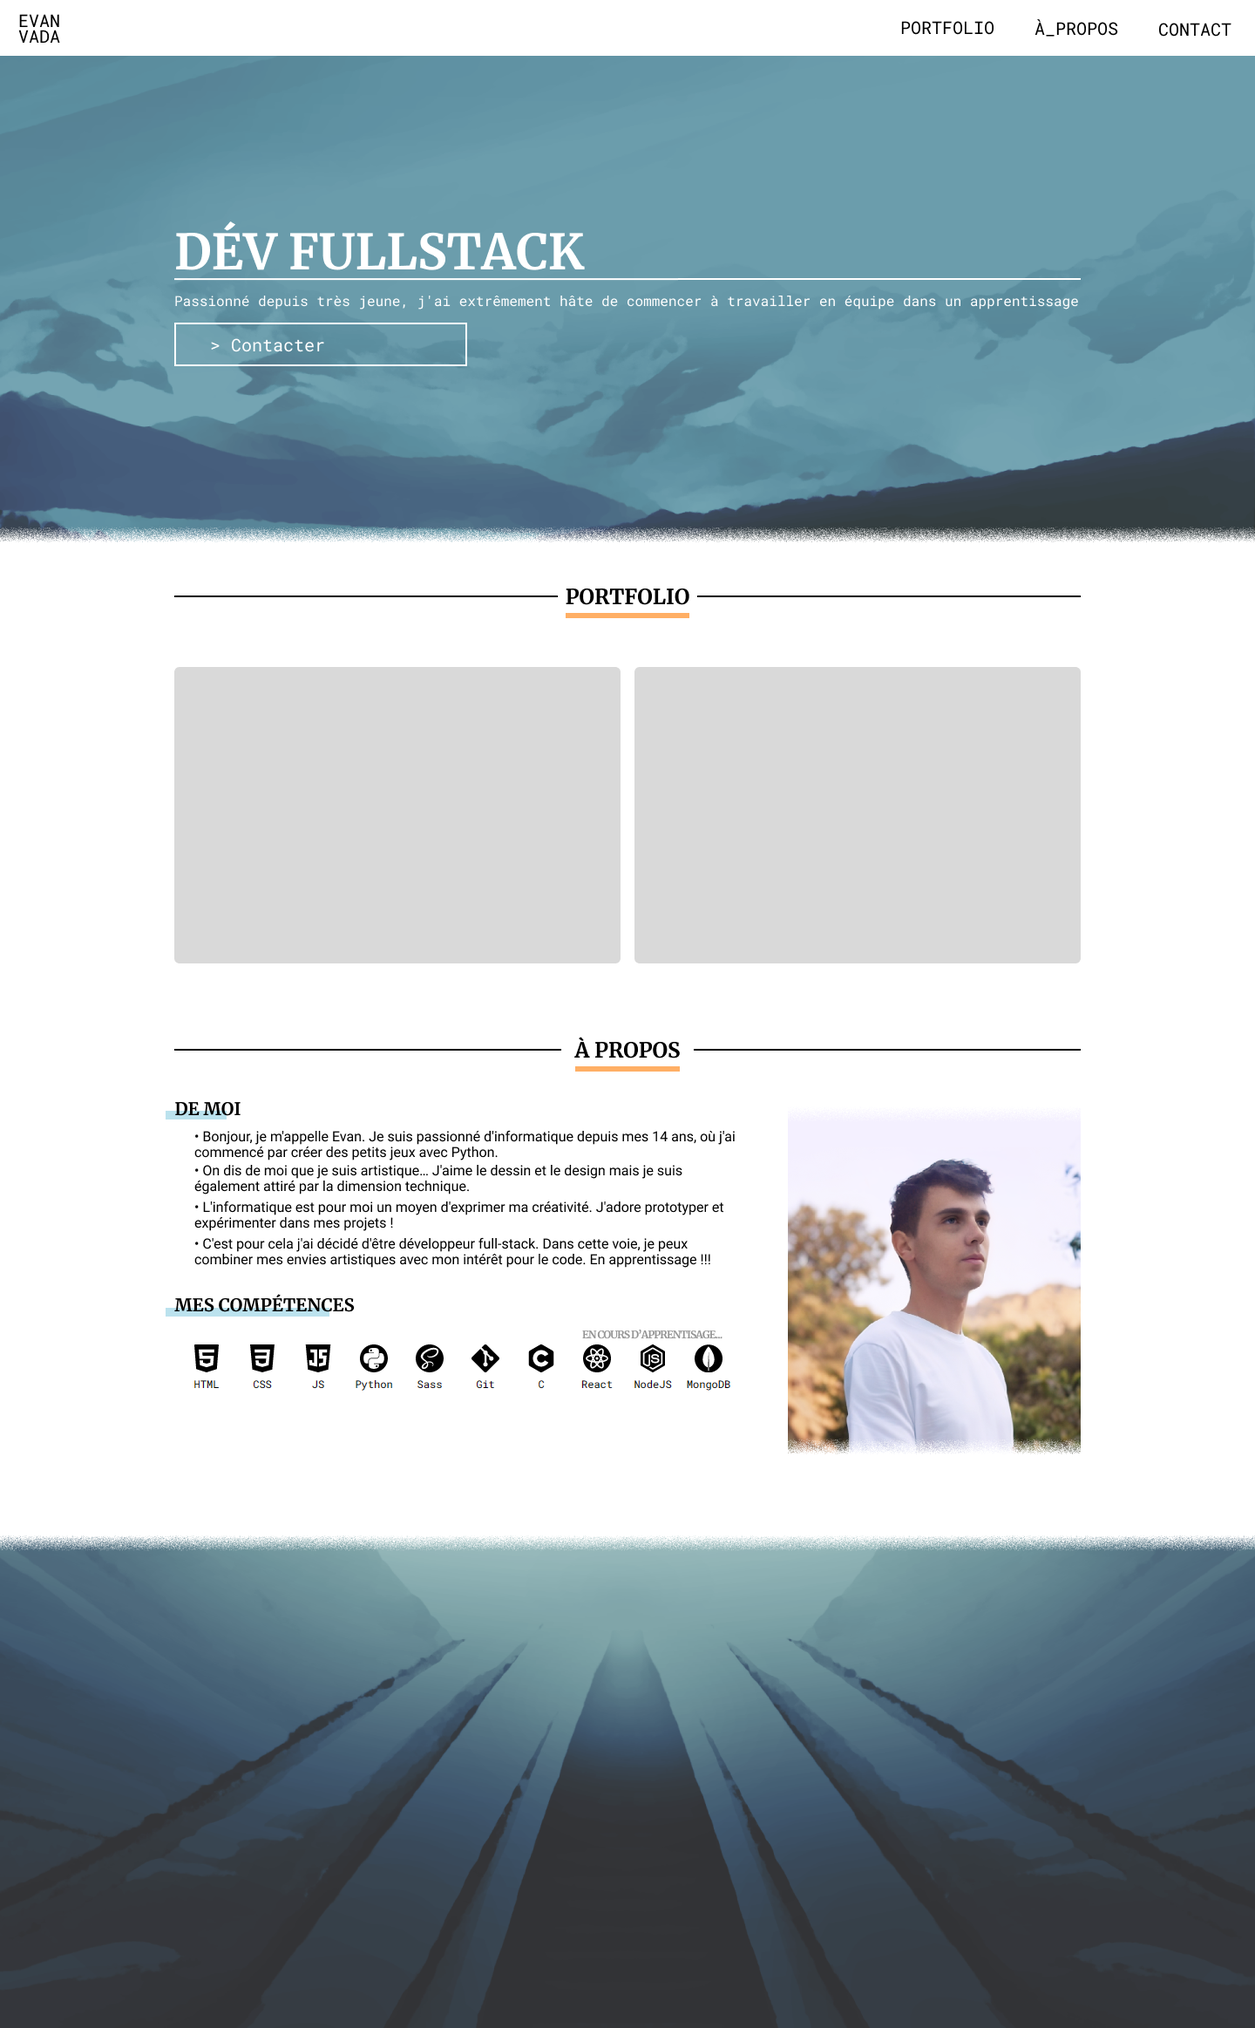
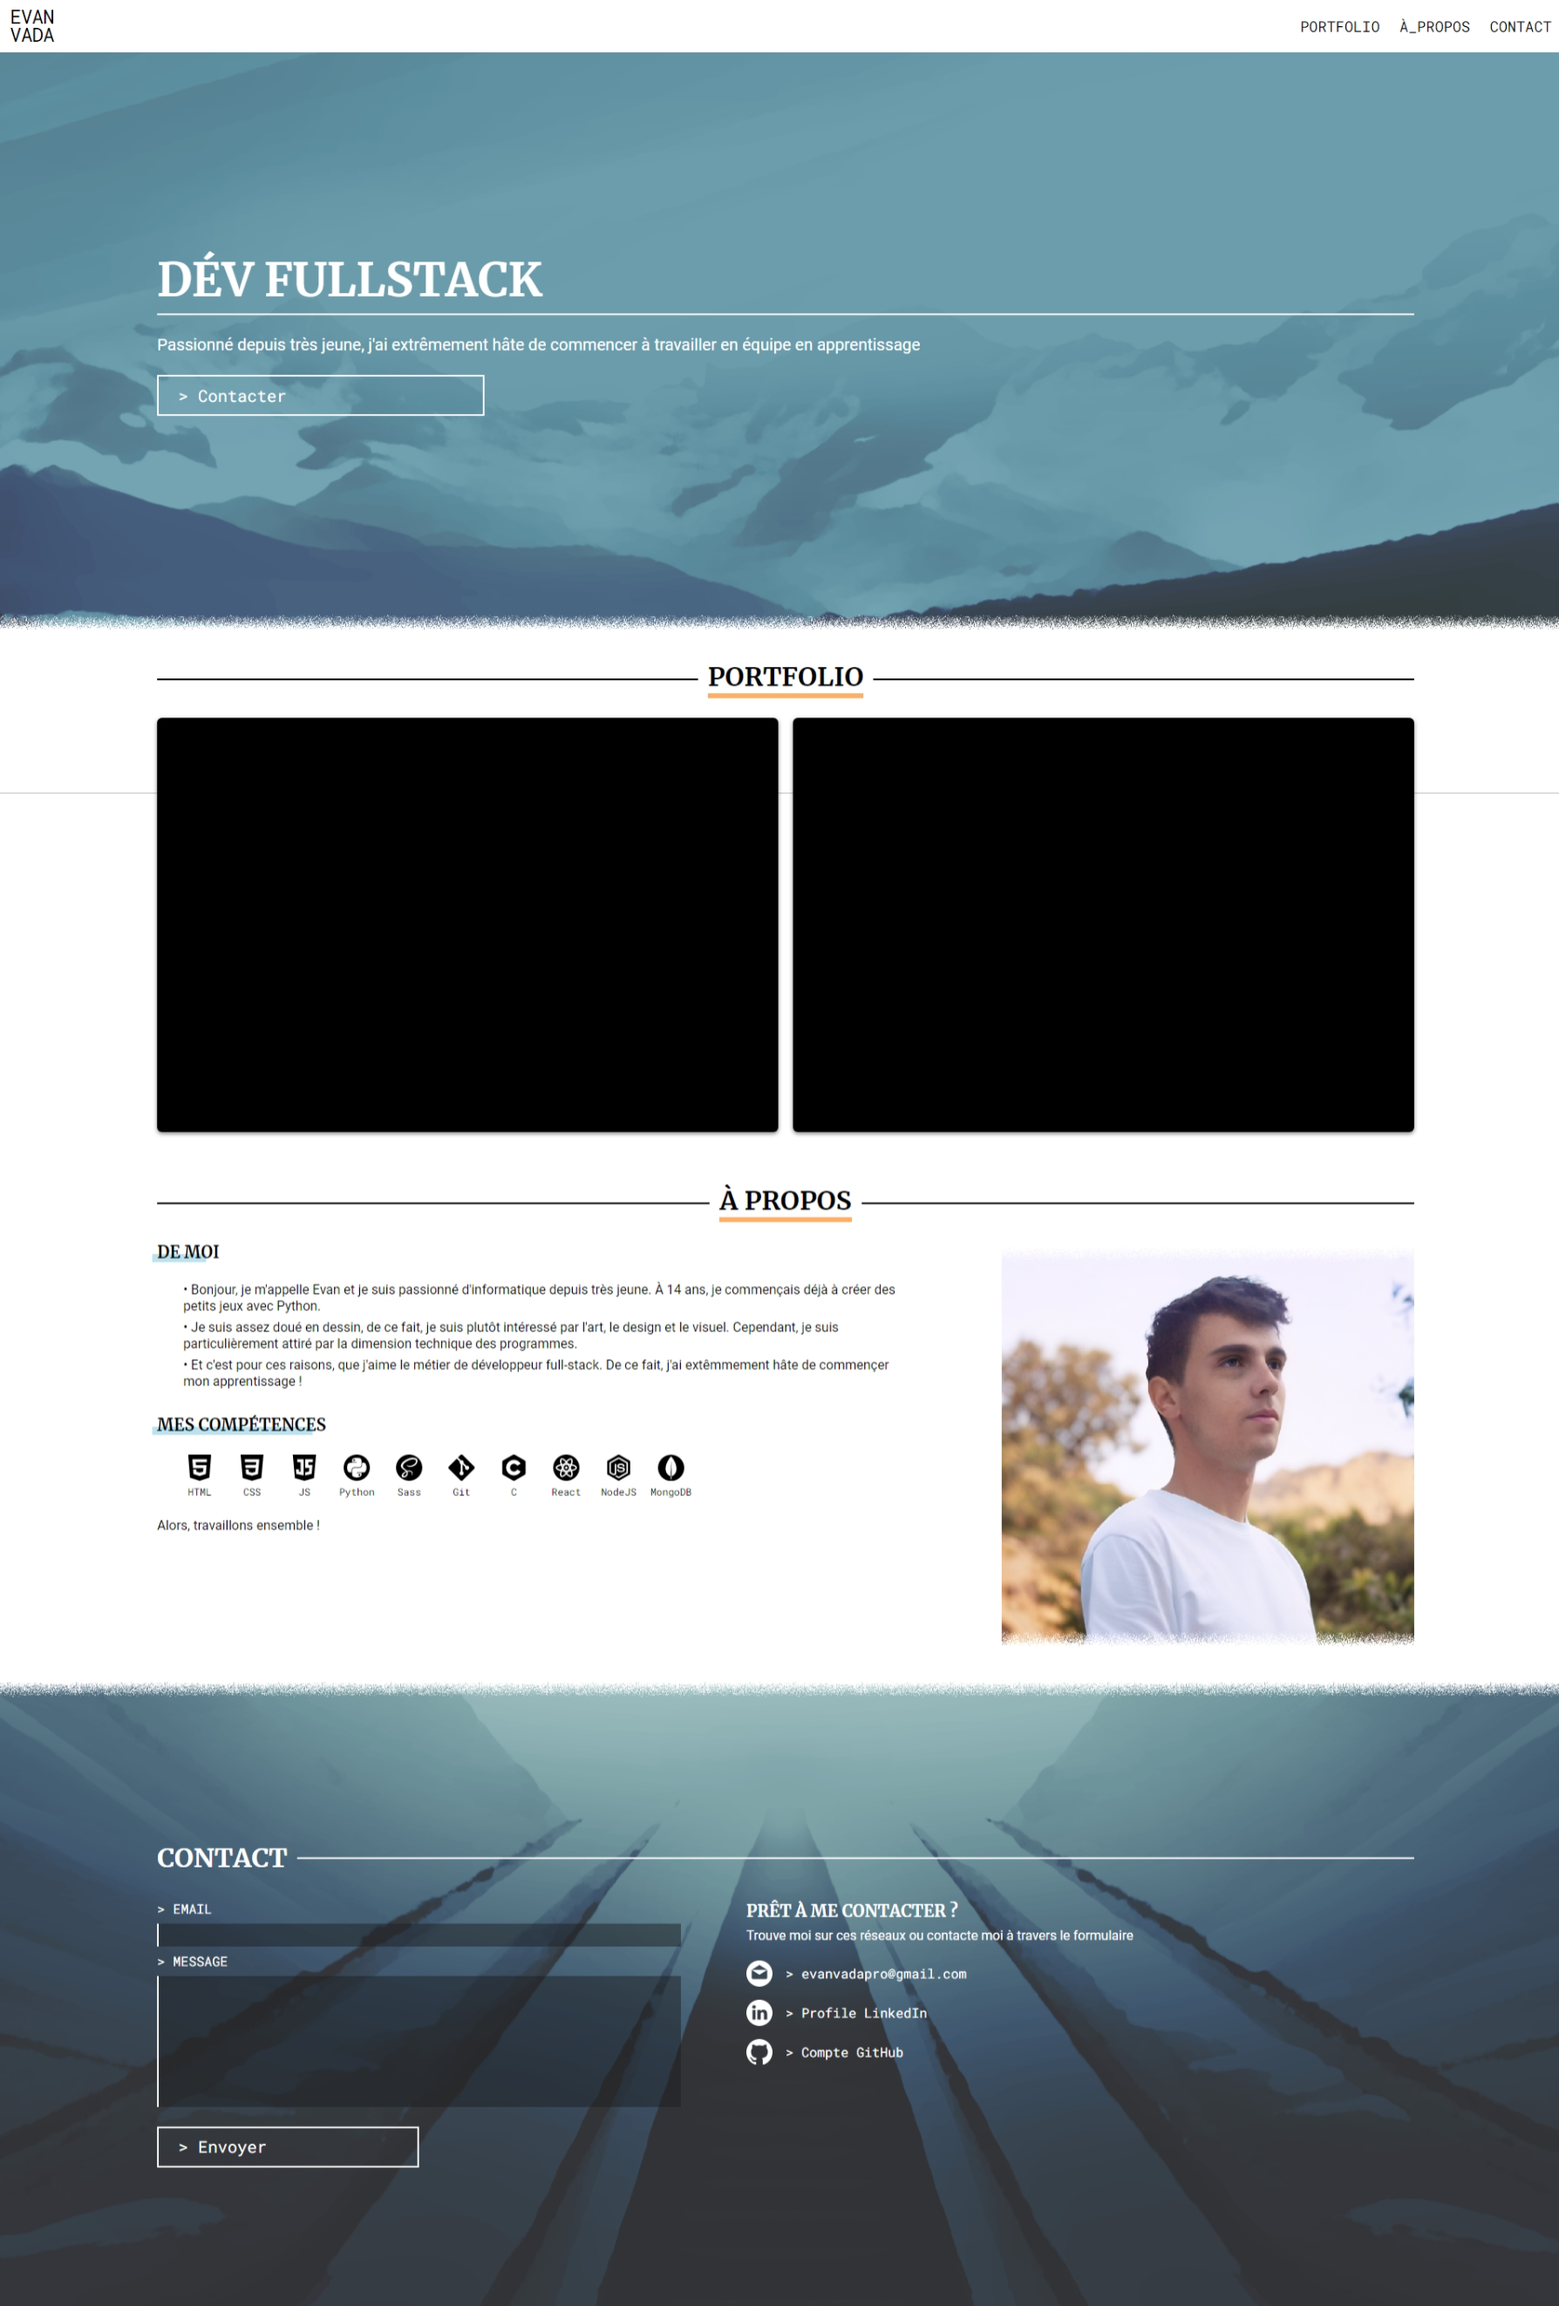
added buttons/links to source code and website

diff --git a/style/layouts/portfolio/hero.css b/style/layouts/portfolio/hero.css
@@ -84,54 +84,15 @@
 
 	box-shadow: 0 2px 5px rgba(12,23,61,1);
 
-	width: calc(1440px * 0.25);
-	height: calc(2340px * 0.25);
+	width: calc(1790px * 0.2);
+	height: calc(2650px * 0.2);
 	transform: rotate(11.25deg) translate(calc(-50% + 140px), -50%);
 
-	top: 70%;
-	left: 80%;
+	top: 65%;
+	left: 83%;
 }
 
 
 
-
-
-
-
-
-/* .hero__phone {
-	background-image: url("../../../media/phone1.png");
-	background-position: center;
-	background-size: cover;
-	position: absolute;
-	z-index: -2;
-
-	border-radius: 20px;
-	box-shadow: 0 2px 5px rgba(12,23,61,1);
-
-	width: calc(360px * 0.5);
-	height: calc(800px * 0.5);
-	transform: rotate(-11.25deg) translate(-50%, -50%);
-
-	top: 60%;
-	left: 5%;
-}
-
-.hero__desktop {
-	background-image: url("../../../media/desktop1.png");
-	background-position: center;
-	background-size: cover;
-	position: absolute;
-	z-index: -2;
-
-	box-shadow: 0 2px 5px rgba(12,23,61,1);
-
-	width: calc(1440px * 0.25);
-	height: calc(2340px * 0.25);
-	transform: rotate(11.25deg) translate(-50%, -50%);
-
-	top: 80%;
-	left: 90%;
-} */
 
 

diff --git a/portfolio.html b/portfolio.html
@@ -16,6 +16,7 @@
 
 	<link rel="stylesheet" href="style/layouts/header.css">
 	<link rel="stylesheet" href="style/layouts/portfolio/hero.css">
+	<link rel="stylesheet" href="style/layouts/portfolio/case-study.css">
 	<link rel="stylesheet" href="style/layouts/footer.css">
 
 	<title>Portfolio Evan</title>
@@ -50,6 +51,13 @@
 			<h2>ÉTUDE DE CAS</h2>
 			<h1>MON PORTFOLIO</h1>
 			<h3>Pour montrer mes projets et contacts et donner envie aux recruteurs bla bla bla</h3>
+		</div>
+	</section>
+
+	<section class="case-study">
+		<div style="display: flex; padding: 24px; gap: 24px;">
+			<button class="primary-button fat-button" type="button"><div class="play icon"></div><span>> Voir l’application</span></button>
+			<button class="secondary-button fat-button" type="button"><div class="code auto-color icon"></div><span>> Voir le code source</span></button>
 		</div>
 	</section>
 

diff --git a/style/layouts/portfolio/case-study.css b/style/layouts/portfolio/case-study.css
@@ -1,0 +1,43 @@
+
+
+
+
+.case-study {
+    width: 100%;
+}
+
+
+
+.case-study .fat-button {
+	display: flex;
+	align-items: center;
+	padding-left: 8px;
+}
+
+
+.fat-button:hover {
+	padding-left: 32px;
+}
+
+
+.fat-button span {
+	font-family: var(--font-special);
+}
+
+
+.case-study .fat-button .icon {
+	margin-right: 12px;
+}
+
+.primary-button {
+	background: rgba(12,23,61,1);
+	border-color: rgba(12,23,61,1);
+	box-shadow: 0 2px 5px rgba(12,23,61,0.5);
+}
+
+.secondary-button {
+	color: var(--text-color);
+	border-color: rgba(12,23,61,1);
+	box-shadow: 0 2px 5px rgba(12,23,61,0.5);
+}
+

diff --git a/style/components/fat-button.css b/style/components/fat-button.css
@@ -8,8 +8,9 @@
 	background: none;
 	border: solid var(--stroke-size) #fff;
 	width: 400px;
-	height: 50px;
+	height: 48px;
 
+	border-radius: 2px;
 	font-family: var(--font-special);
 	text-align: left;
 	padding-left: 24px;
@@ -20,6 +21,5 @@
 	cursor: pointer;
 	padding-left: 64px;
 	border-radius: 25px;
-	background: rgba(0, 0, 0, 0.5);
 }
 

diff --git a/style/layouts/index/hero.css b/style/layouts/index/hero.css
@@ -4,7 +4,7 @@
 
 
 .hero {
-	height: 70%;
+	height: 80%;
 	overflow: hidden;
 	position: relative;
 }
@@ -52,7 +52,6 @@
 }
 
 .hero__overlay > input[type="button"]:hover {
-	/* background: rgba(83, 119, 139, 0.5); */
 	background: rgba(90, 140, 157, 0.5);
 }
 
